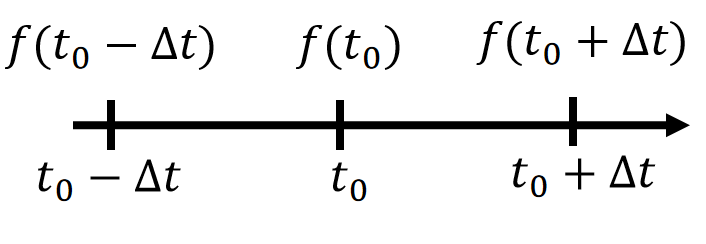
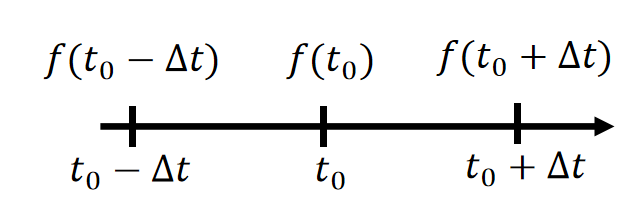
127

diff --git a/src/wave.md b/src/wave.md
@@ -119,9 +119,7 @@ P12
 
 The idea of finite differencing is to use the difference to approximate the derivative.    
 
-|![](./assets/10-11.png)||  
-|---|---|
-|| $$f(t_0+∆t)=f(t_0)+∆t\frac{df(t_0)}{dt}+\frac{∆t^2}{2}\frac{d^2f(t_0)}{dt^2} +… \\\\\quad\\\\ f(t_0-∆t)=f(t_0)+∆t\frac{df(t_0)}{dt}+\frac{∆t^2}{2}\frac{d^2f(t_0)}{dt^2} +…$$  |
+![](./assets/10-111.png)
 
 
 Central differencing (second-order)   
